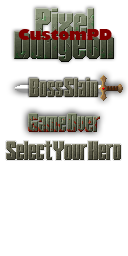
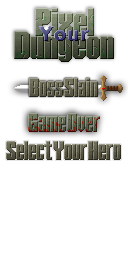
Changed the name Custom PD to Your Pixel Pungeon

Changed region(s): [[0.125, 0.0938, 0.875, 0.1875]]

diff --git a/src/com/dit599/customPD/scenes/RankingsScene.java b/src/com/dit599/customPD/scenes/RankingsScene.java
@@ -39,7 +39,7 @@ import com.watabou.noosa.ui.Button;
 
 public class RankingsScene extends PixelScene {
 	
-	private static final String TXT_TITLE		= "CustomPD Top Rankings";
+    private static final String TXT_TITLE = "YourPD Top Rankings";
 	private static final String TXT_TOTAL		= "Total games played: %d";
 	private static final String TXT_NO_GAMES	= "No games have been played yet.";
 	

diff --git a/src/com/dit599/customPD/windows/WndRanking.java b/src/com/dit599/customPD/windows/WndRanking.java
@@ -142,7 +142,7 @@ public class WndRanking extends WndTabbed {
 		
 		private static final int GAP	= 4;
 		
-		private static final String TXT_TITLE	= "CustomPD Level %d %s";
+        private static final String TXT_TITLE = "YourPD Level %d %s";
 		
 		private static final String TXT_CHALLENGES	= "Challenges";
 		
